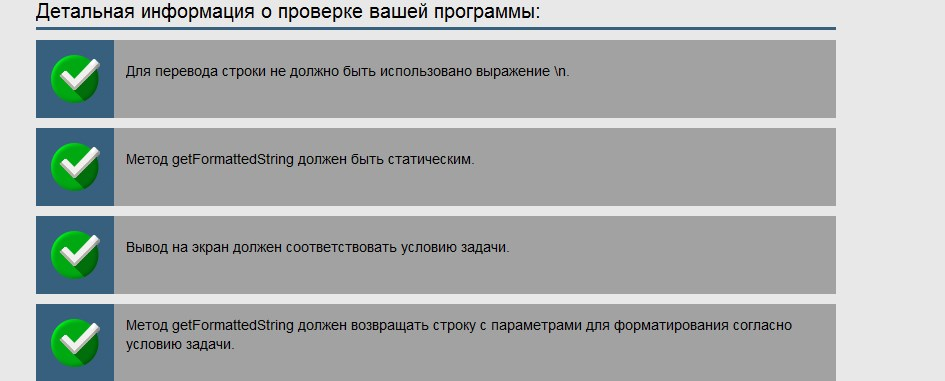
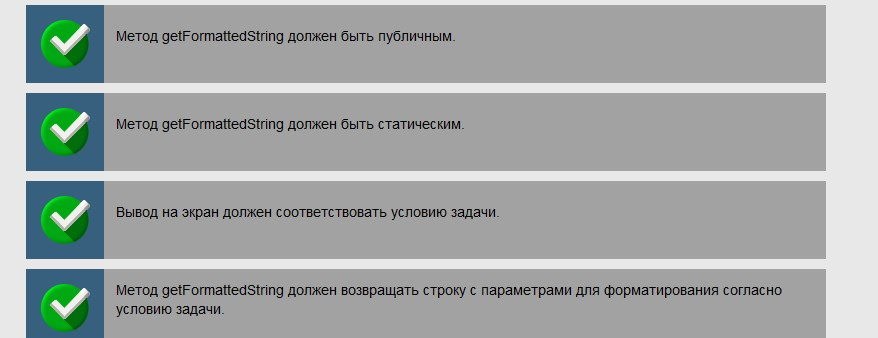
МНЕ нравится курс JavaRush
task22.task2205

diff --git a/JavaRushTasks/JavaRushTasks/3.JavaMultithreading/src/com/javarush/task/task22/task2205/Solution.java b/JavaRushTasks/JavaRushTasks/3.JavaMultithreading/src/com/javarush/task/task22/task2205/Solution.java
@@ -1,0 +1,27 @@
+package com.javarush.task.task22.task2205;
+
+/* 
+МНЕ нравится курс JavaRush
+Исправить метод getFormattedString так, чтобы он возвращал строку с параметрами для форматирования.
+Параметры должны меняться местами.
+
+Должен быть вывод:
+МНЕ нравится курс JavaRush
+
+
+Требования:
+1. Метод getFormattedString должен быть публичным.
+2. Метод getFormattedString должен быть статическим.
+3. Вывод на экран должен соответствовать условию задачи.
+4. Метод getFormattedString должен возвращать строку с параметрами для форматирования согласно условию задачи.
+*/
+public class Solution {
+    public static void main(String[] args) {
+        System.out.println(String.format(getFormattedString(), "JavaRush", "курс", "мне", "нравится"));
+        //должен быть вывод
+        //"МНЕ нравится курс JavaRush"
+    }
+    public static String getFormattedString() {
+        return "";
+    }
+}
